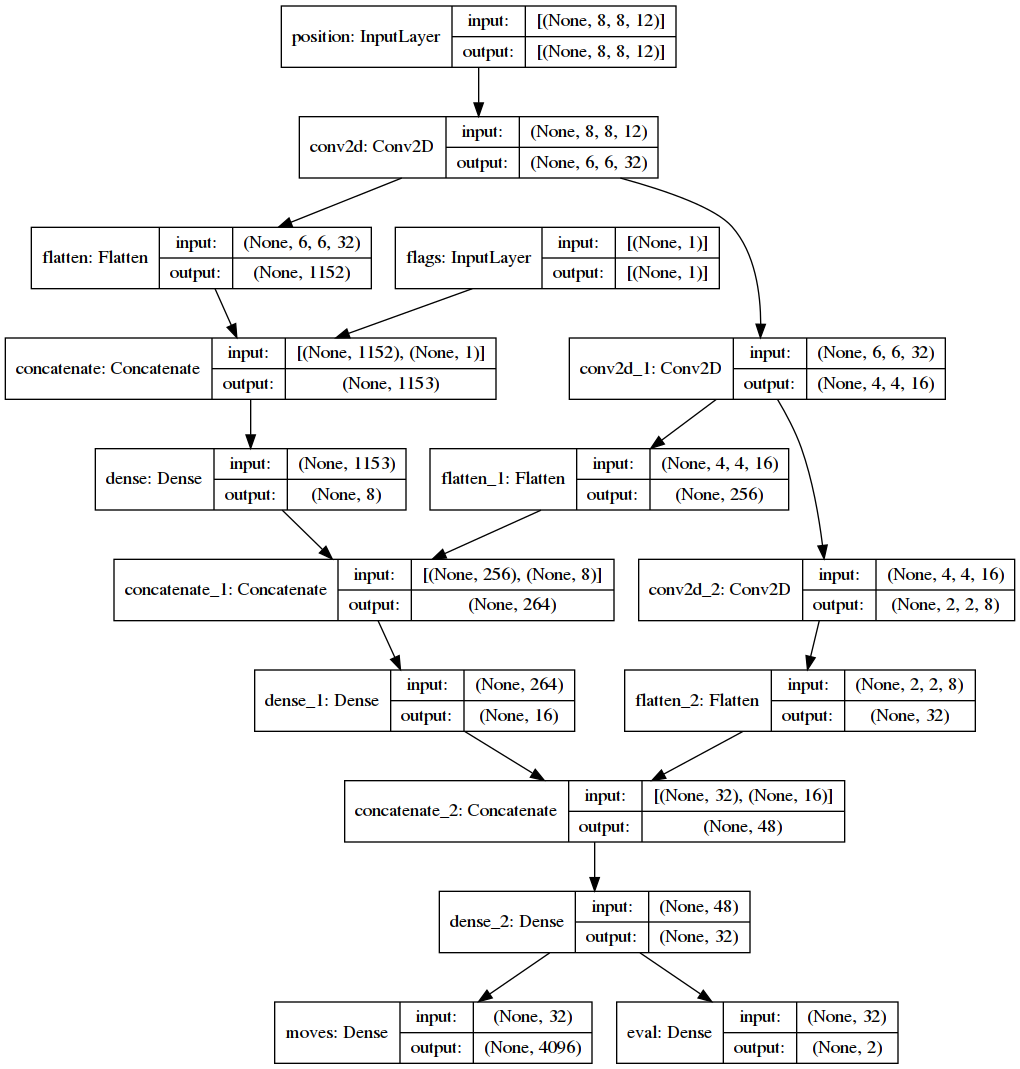
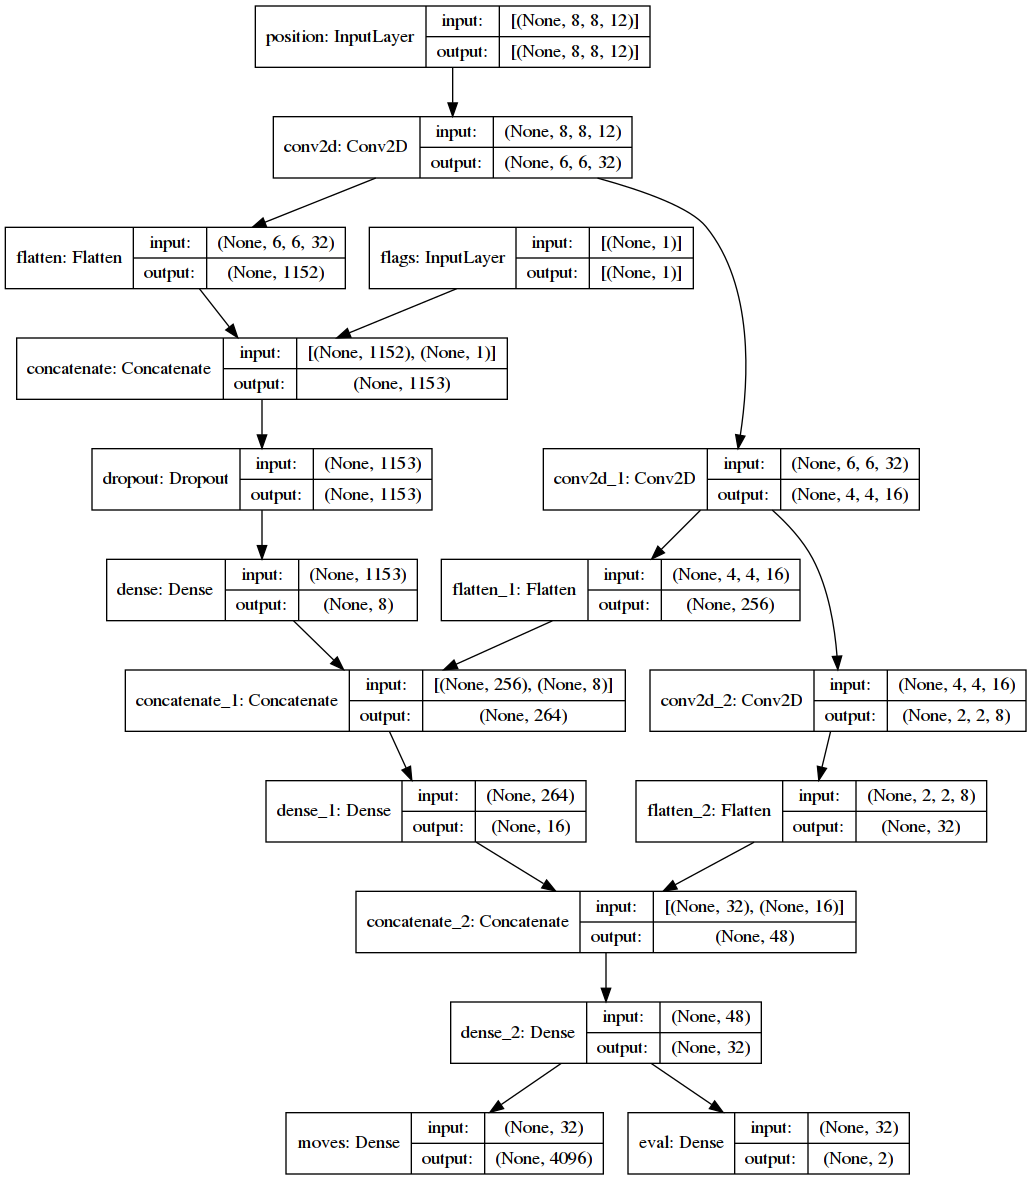
Convolutional training

Changed region(s): [[0.0, 0.0, 1.0, 1.0]]

diff --git a/chessnn/nn.py b/chessnn/nn.py
@@ -50,7 +50,7 @@ class NN(object):
         logging.info("Starting to learn...")
         cbs = [callbacks.TensorBoard('/tmp/tensorboard/%d' % time.time())] if epochs > 1 else []
         res = self._model.fit(inputs, outputs,  # sample_weight=np.array(sample_weights),
-                              validation_split=0.1 if validation_data is None else 0.0, shuffle=True,
+                              validation_split=0.1 if (validation_data is None and epochs > 1) else 0.0, shuffle=True,
                               callbacks=cbs, verbose=2 if epochs > 1 else 0,
                               epochs=epochs, )
         logging.info("Trained: %s", {x: y[-1] for x, y in res.history.items()})
@@ -88,20 +88,20 @@ class NNChess(NN):
         position = layers.Input(shape=pos_shape, name="position")
         flags = layers.Input(shape=(1,), name="flags")
 
-        conv1 = layers.Conv2D(32, kernel_size=(3, 3), activation=activ_hidden)(position)
+        conv1 = layers.Conv2D(32, kernel_size=(3, 3), activation=activ_hidden, kernel_regularizer=reg)(position)
         main1 = layers.concatenate([layers.Flatten()(conv1), flags])
-        # main1 = layers.Dropout(0.1)(main1)
-        dense1 = layers.Dense(8, activation=activ_hidden)(main1)
+        main1 = layers.Dropout(0.1)(main1)
+        dense1 = layers.Dense(8, activation=activ_hidden, kernel_regularizer=reg)(main1)
 
-        conv2 = layers.Conv2D(16, kernel_size=(3, 3), activation=activ_hidden)(conv1)
+        conv2 = layers.Conv2D(16, kernel_size=(3, 3), activation=activ_hidden, kernel_regularizer=reg)(conv1)
         main2 = layers.concatenate([layers.Flatten()(conv2), dense1])
         # main2 = layers.Dropout(0.1)(main2)
-        dense2 = layers.Dense(16, activation=activ_hidden)(main2)
+        dense2 = layers.Dense(16, activation=activ_hidden, kernel_regularizer=reg)(main2)
 
-        conv3 = layers.Conv2D(8, kernel_size=(3, 3), activation=activ_hidden)(conv2)
+        conv3 = layers.Conv2D(8, kernel_size=(3, 3), activation=activ_hidden, kernel_regularizer=reg)(conv2)
         main3 = layers.concatenate([layers.Flatten()(conv3), dense2])
         # main3 = layers.Dropout(0.1)(main3)
-        dense3 = layers.Dense(32, activation=activ_hidden)(main3)
+        dense3 = layers.Dense(32, activation=activ_hidden, kernel_regularizer=reg)(main3)
 
         main = dense3
         out_moves = layers.Dense(4096, activation=activ_out, name="moves")(main)
@@ -110,7 +110,7 @@ class NNChess(NN):
         model = models.Model(inputs=[position, flags], outputs=[out_moves, out_eval])
         model.compile(optimizer=optimizer,
                       loss="categorical_crossentropy",
-                      loss_weights=[1.0, 0.5],
+                      # loss_weights=[1.0, 0.1],
                       metrics=['categorical_accuracy'])
         return model
 

diff --git a/training.py b/training.py
@@ -104,7 +104,7 @@ def play_with_score(pwhite, pblack):
     draw: Set[MoveRecord] = set()
 
     if not is_debug() and winning.dataset:
-        nn.train(winning.dataset | losing.dataset, 20);return
+        nn.train(winning.dataset | losing.dataset, 20);  # return
         pass
 
     rnd = max([x.from_round for x in winning.dataset | losing.dataset]) if winning.dataset else 0
@@ -121,7 +121,7 @@ def play_with_score(pwhite, pblack):
                 move.forced_eval = 0.0
             winning.update(wmoves)
             losing.update(bmoves)
-            # nn.train(winning.dataset | losing.dataset, 1)
+            nn.train(winning.dataset | losing.dataset, 1)
         elif result == '0-1':
             for x, move in enumerate(bmoves):
                 move.forced_eval = 1.0
@@ -129,7 +129,7 @@ def play_with_score(pwhite, pblack):
                 move.forced_eval = 0.0
             winning.update(bmoves)
             losing.update(wmoves)
-            # nn.train(winning.dataset | losing.dataset, 1)
+            nn.train(winning.dataset | losing.dataset, 1)
         else:
             for x, move in enumerate(bmoves):
                 move.forced_eval = 0.5
@@ -215,13 +215,12 @@ if __name__ == "__main__":
 
     nn = NNChess("nn.hdf5")
     white = Player("Lisa", WHITE, nn)
-    # black = Player("Karen", BLACK, nn)
-
-    black = Stockfish(BLACK)
+    black = Player("Karen", BLACK, nn)
+    # black = Stockfish(BLACK)
 
     try:
         # play_per_turn(white, black)
         play_with_score(white, black)
     finally:
-        if black.name == 'Stockfish':
+        if isinstance(black, Stockfish):
             black.engine.quit()

diff --git a/chessnn/player.py b/chessnn/player.py
@@ -23,10 +23,8 @@ class Player(object):
         self.moves_log = []
 
     def makes_move(self, in_round):
-        pos = self.board.get_position() if self.color == chess.WHITE else self.board.mirror().get_position()
-
         moverec: MoveRecord
-        moverec, move, geval = self._choose_best_move(pos)
+        moverec, move, geval = self._choose_best_move()
 
         self._log_move(moverec, move)
 
@@ -42,12 +40,15 @@ class Player(object):
             self.moves_log.append(moverec)
             self.board.comment_stack.append(moverec)
 
-    def _choose_best_move(self, pos):
+    def _choose_best_move(self):
+        pos = self.board.get_position() if self.color == chess.WHITE else self.board.mirror().get_position()
+
         moverec = self._get_moverec(pos, chess.Move.null())
         scores4096, geval = self.nn.inference([moverec])
         move = self._scores_to_move(scores4096)
         moverec.from_square = move.from_square
         moverec.to_square = move.to_square
+        moverec.forced_eval = geval[0]
         return moverec, move, geval[0]
 
     def _get_moverec(self, pos, move):
@@ -64,7 +65,6 @@ class Player(object):
                 move = flipped
 
             if not self.board.is_legal(move):
-                # logging.debug("Invalid move suggested: %s", move)
                 cnt += 1
                 continue
 

diff --git a/chessnn/__init__.py b/chessnn/__init__.py
@@ -272,6 +272,9 @@ class MoveRecord(object):
         return 0.0
 
     def get_move_num(self):
+        if self.from_square == self.to_square:
+            return 0  # null move
+
         return 64 * self.from_square + self.to_square
 
 
